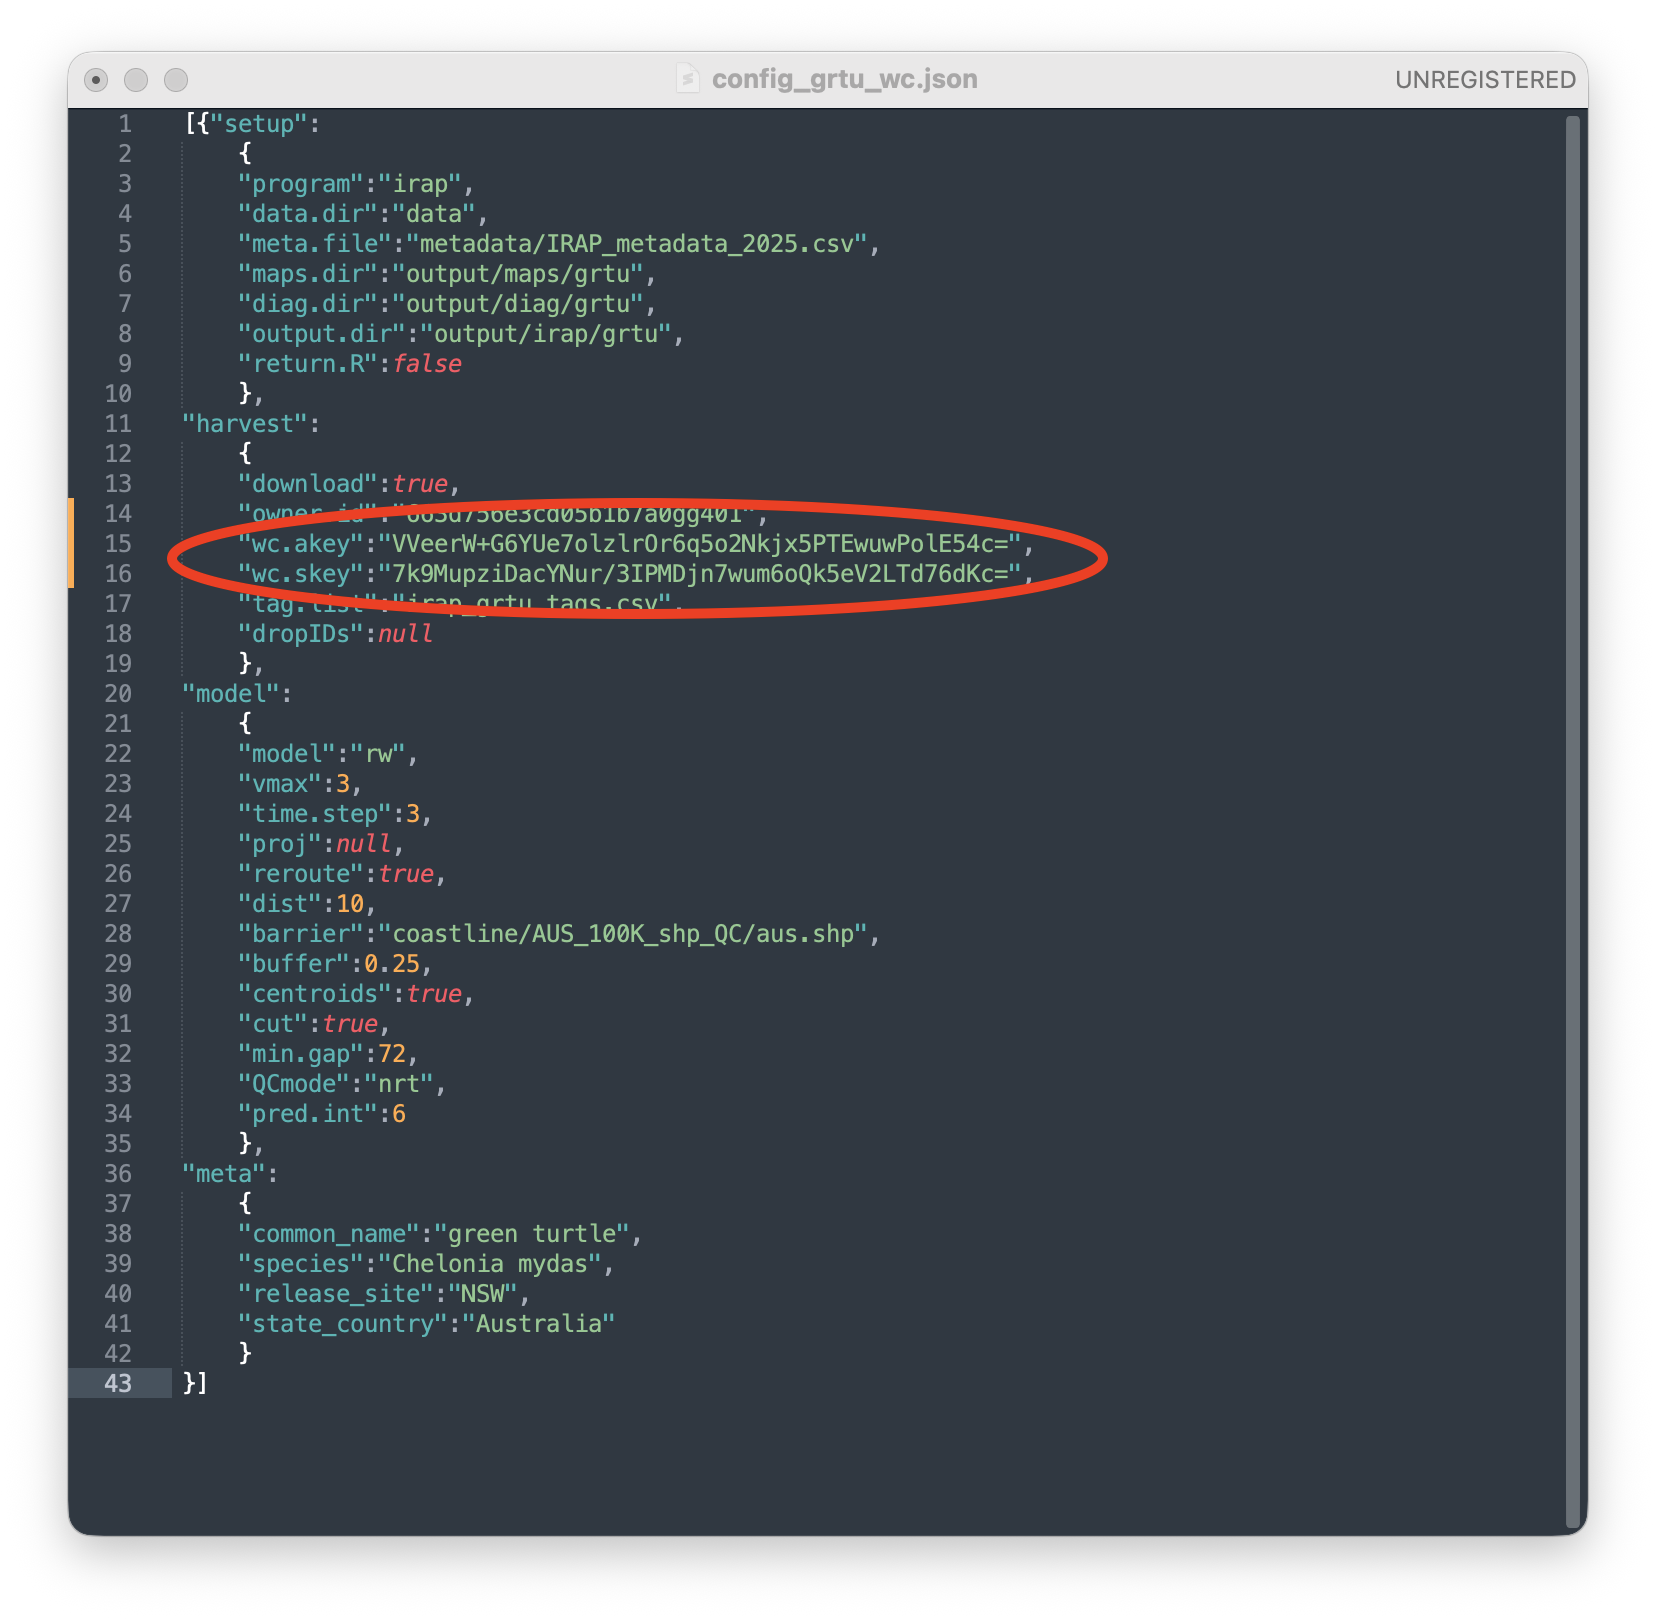
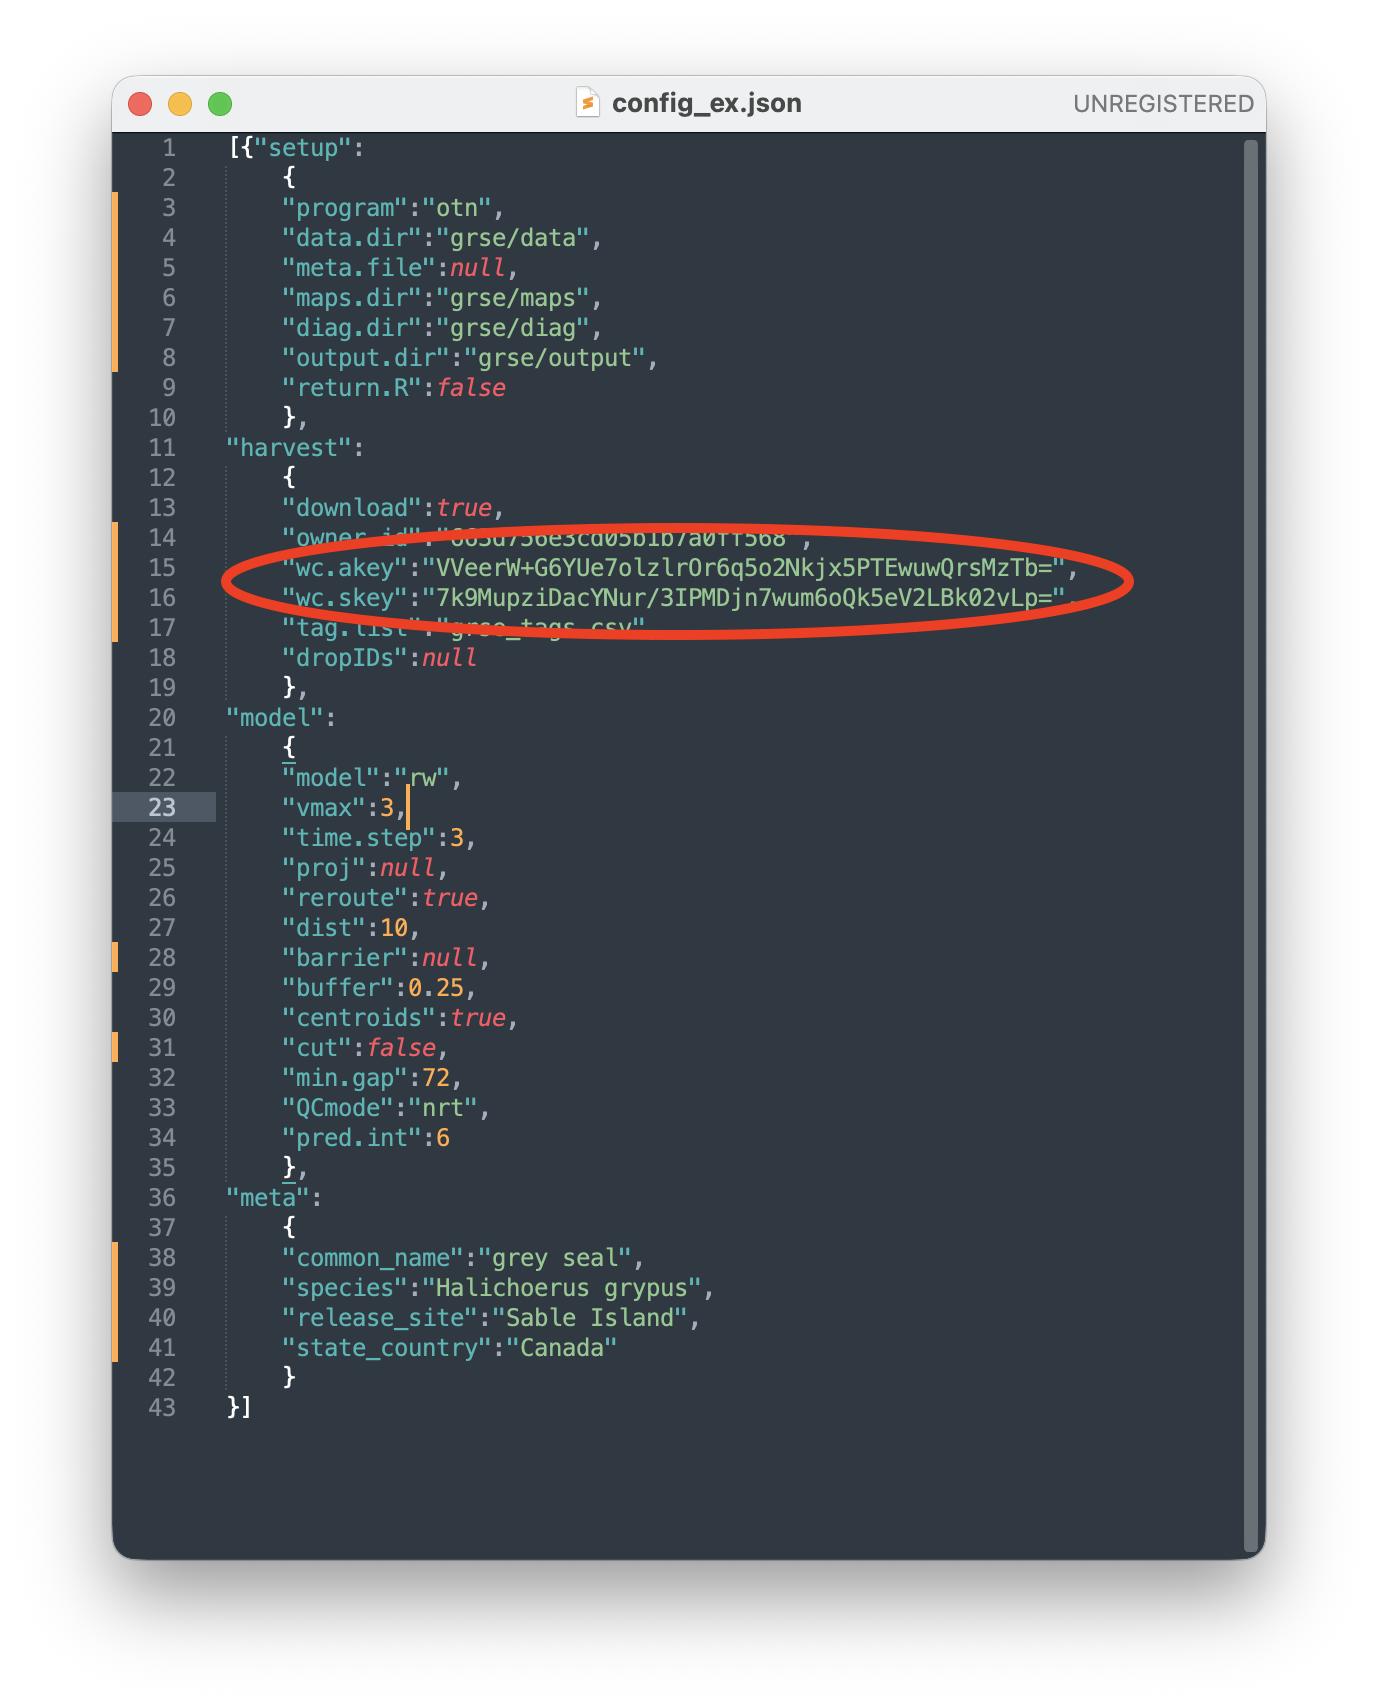
WC config setup How To

Changed region(s): [[0.0312, 0.0309, 0.9673, 0.9568]]

diff --git a/_episodes/30_near_real_time_qc_process.md b/_episodes/30_near_real_time_qc_process.md
@@ -145,11 +145,11 @@ In the `harvest` block the parameters are:
 
 In the `model` block the parameters are:
 
-- `model` - the state-space model to be used to QC the location data. Can be either `rw` (a random walk model) or `crw` (a correlated random walk model). The `rw` model is the safest choice for most animal tracking data.
-- `vmax` - the maximum expected travel rate (in m/s) of the animals. For seals and penguins this is typically 3 m/s, for sea turtles it is usually 2 m/s, for flying sea birds it should set to between about 10 and 15 m/s depending on their maximum plausible travel rate.
+- `model` - the state-space model to be used to QC the location data. Can be either `rw` (a random walk model) or `crw` (a correlated random walk model). The `rw` model is the safest choice for most NRT QC workflows. The `crw` model can yield more accurate location estimates but only with high quality Argos data (i.e., observed locations at a consistent frequency of at least 5-10 locations/day with no prolonged, > ~2 days, data gaps).
+- `vmax` - the maximum expected sustanined travel rate (in m/s) of the animals. For seals, turtles, penguins, whales, sharks and other large fish a reasonable value is  3-5 m/s, for flying sea birds it should set higher (e.g., 10 - 15 m/s).
 - `time.step` - the regular time interval (in decimal hours) that the SSM estimates locations. Typically, this should fall in the range of 3 - 6 hours, but depends on the frequency of Argos locations. Shorter time.steps will generally increase processing time, longer will result in QC'd tracks that are too coarse to capture essential movement details (this can be assessed on a test QC run by viewing the QC-generated maps & diagnostic plots).
-- `proj` - An optional proj4string (with units in km) giving the projection that should be used for the Argos data when fitting the SSM - the QC'd data will also have this projection. If left `null` then ArgosQC guesses at the most appropriate projection based on where the majority of the Argos locations occur. Typically, a projection only needs to be specified when the Argos locations in a polar region, e.g., beyond +/- 50$^\circ$ latitude.
-- `reroute` - A logical indicating whether locations on land are to be rerouted off of land.
+- `proj` - An optional proj4string (with units in km) giving the projection that should be used for the Argos data when fitting the SSM - the QC'd data will also have this projection. If left `null` then ArgosQC guesses at the most appropriate projection based on the geographic region of the majority of the Argos locations. Typically, a projection only needs to be specified when the Argos locations in a polar region, e.g., beyond +/- 50$^\circ$ latitude. In these cases, a polar stereographic projection is usually optimal.
+- `reroute` - A logical indicating whether locations on land are to be rerouted off of land. This is usually warranted for most marine animals, however may be problematic for tagged animals (i.e., some seals & penguins) that frequently haulout on land for prolonged periods in the middle of tag deployments, and for seabirds that frequently fly over or return to land.
 - `dist` - the distance (in km) to buffer around SSM locations when rerouting off of land. Larger buffer distances include more coastline, which can improve rerouting in some circumstances but will increase processing time considerably. This shouldn't usually need to be changed from 20 km.
 - `barrier` - an optional ESRI shapefile for the land barrier used in rerouting. In rare cases where animal movements are highly localised and constrained to nearshore regions, a higher resolution land polygon dataset for the specific region may be more suitable than the default global land polygon dataset.
 - `buffer` - the distance (in km) to move rerouted locations away from the closest land. 
@@ -200,11 +200,11 @@ Steps 2 and 3 only need to be done once.
     
     Choose the appropriate `owner.id` and copy it into the ArgosQC config file. Only one `owner.id` can be used per config file:
     
-    ![](../fig/wc_config_owner.id.png){width=500}
+    ![](../fig/wc_config_owner.id.png){width=400}
     
 7.  Copy and paste the WC access and secret keys that were generated in step 3 into `harvest:wc.akey` and `harvest:wc.skey`, respectively:
 
-    ![](../fig/wc_config_akey_skey.png){width=500}
+    ![](../fig/wc_config_akey_skey.png){width=400}
     
 8.  Get the WC dataset UUID's from the Portal to populate the `harvest:tag.list` file, using the ArgosQC function `wc_get_uuids`:
     ```
@@ -228,15 +228,21 @@ Steps 2 and 3 only need to be done once.
     
     Move this CSV file into the QC working directory and copy the file name into `harvest:tag.list`:
     
-    ![](../fig/wc_config_tag.list.png){width=500}
+    ![](../fig/wc_config_tag.list.png){width=400}
     
-    To conduct a QC workflow on all the owner's tag datasets, `harvest:tag.list` can be set to `null`.
+    This approach is required, for example, when the owner's tags have been deployed on multiple species. In this case, separate QC workflows need to be run for each species. The WC Portal typically does not contain information on the species tags were deployed on, so the node manager will require some minimum deployment metadata from the tag owner to identify which tags (e.g., by tag serial number &/or deployment date) were deployed on which species. If all the owner's tags were deployed on a single species in a common geographic locations then they can likely be QC'd in a single workflow. To conduct a QC workflow on all the owner's tag datasets, `harvest:tag.list` should be set to `null`.
     
-10. 
+10. The `model` section of the config file provides parameters and information to conduct the QC, including: fitting the state-space model (SSM) to the tag location data; rerouting locations off of land; interpolating SSM locations to the times of each record in the various tag data files. A good starting place for parameter values is provided in the example config file:
 
+    ![](../fig/wc_config_model_params.png){width=400}
 
+    See the `Configuring ArgosQC` section (above) for an explanation of the typical parameter values. Generally, the config parameters only need to be set once per species but arriving at reasonable parameter values usually requires at least one QC test run. The node manager should examine the QC-generated map & diagnostic plots to ensure the QC results are reasonable. Below are some examples of the maps & diagnostic plots from "good" and "bad" QC outcomes.
 
 **More details on setup to go here**
+
+11. The `meta` section of the config file is only required if no metadata file is provided in the `setup` block. When no metadata file is provided, ArgosQC uses the fields in the `meta` block plus partial deployment metadata downloaded from the WC Portal. ArgosQC assembles these metadata attributes and writes a deployment metadata CSV file as one of the QC outputs. This file, if sufficiently complete, can be used as an input to subsequent QC runs by supplying the CSV file in the `setup` block. When both a metadata file & completed `meta` config block are provided, the attributes from the metadata file will supersede those in the `meta` block.
+
+
 
 ## ArgosQC Key Features
 https://github.com/ianjonsen/ArgosQC
